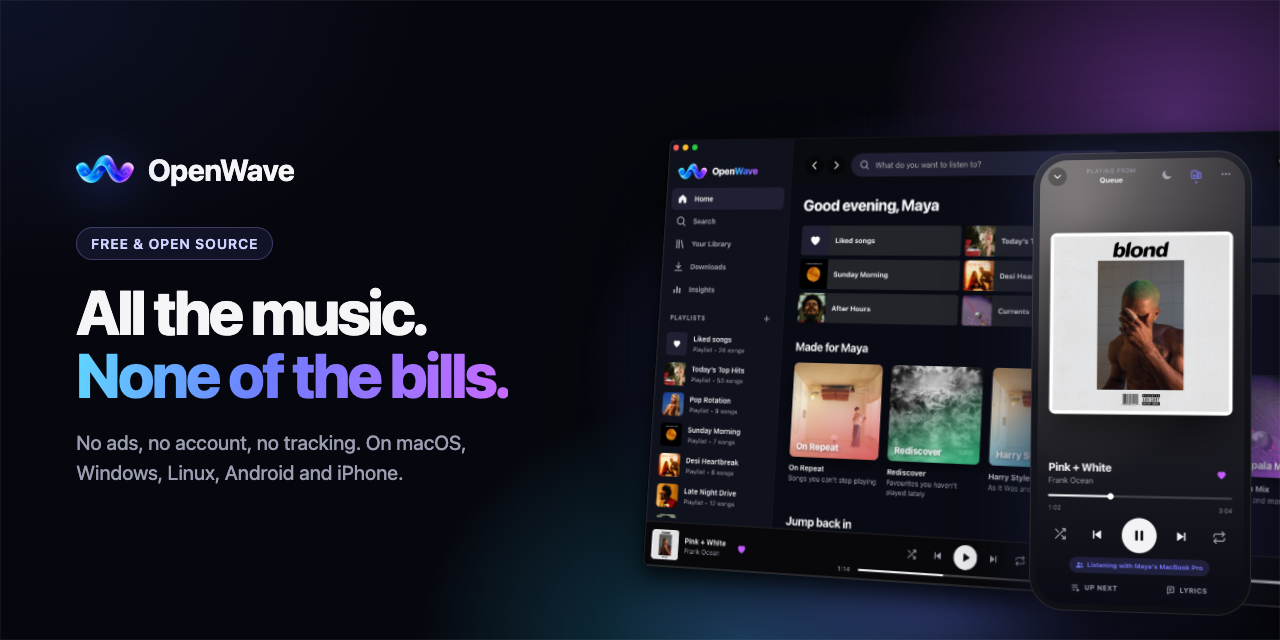
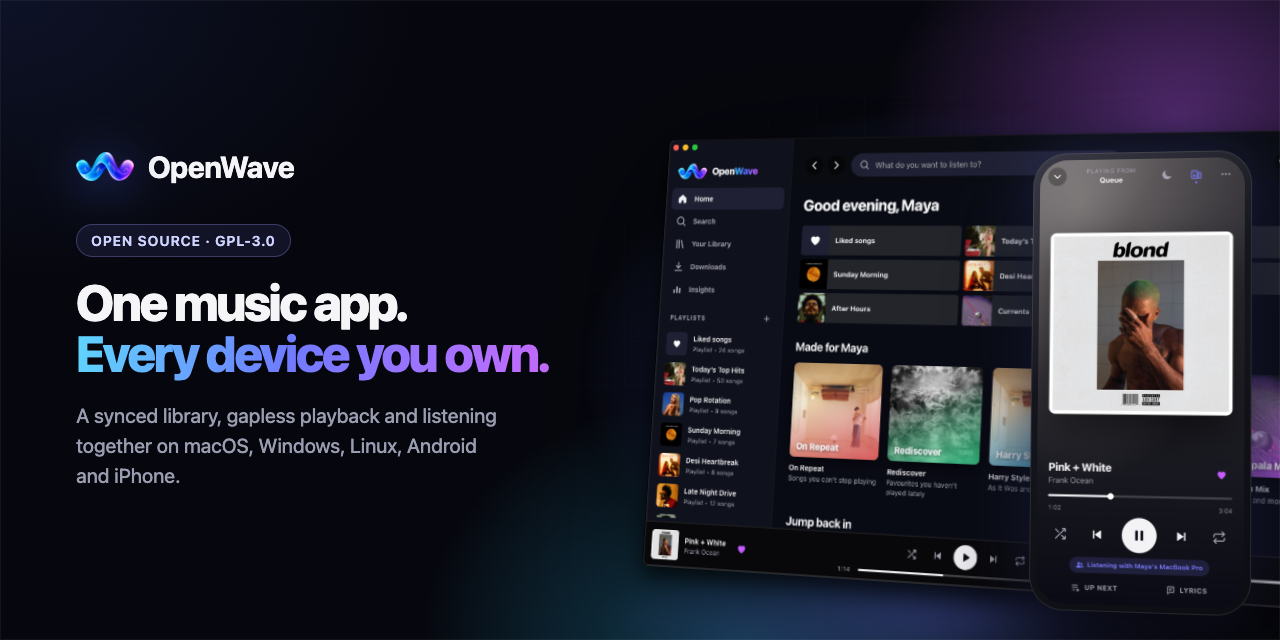
Describe OpenWave as an open-source, non-commercial player
Remove "no ads", "none of the bills" and "replace a premium subscription"
wording from the README, website, social card, release notes, app About
text and manifest. Add a legal and responsible-use section and a
non-commercial, no-circumvention rule for contributions.

Changed region(s): [[0.0625, 0.4375, 0.4375, 0.75], [0.0625, 0.3438, 0.25, 0.4062], [0.0625, 0.2188, 0.25, 0.2812]]

diff --git a/site/index.html b/site/index.html
@@ -3,10 +3,10 @@
 <head>
   <meta charset="utf-8">
   <meta name="viewport" content="width=device-width, initial-scale=1">
-  <title>OpenWave — free music for everyone</title>
-  <meta name="description" content="Free, open-source music app. Search almost any song, play it with no ads, download for offline, sync your playlists. No subscriptions, ever.">
-  <meta property="og:title" content="OpenWave — free music for everyone">
-  <meta property="og:description" content="No ads. No subscriptions. No premium tier. Ever.">
+  <title>OpenWave — an open-source music player for every device</title>
+  <meta name="description" content="OpenWave is an open-source music player for macOS, Windows, Linux, Android and iPhone, with a synced library, gapless playback and listen-together across your devices.">
+  <meta property="og:title" content="OpenWave — an open-source music player for every device">
+  <meta property="og:description" content="One engine, native apps on five platforms, a synced library and listen-together across your devices.">
   <meta property="og:image" content="screenshots/hero.png">
   <meta name="theme-color" content="#0a0b14">
   <link rel="icon" href="favicon-64.png">
@@ -87,21 +87,21 @@
 
   <header>
     <img class="hero-logo" src="logo.png" alt="OpenWave">
-    <h1>All the music.<br><span class="grad">None of the bills.</span></h1>
-    <p class="sub">OpenWave is a free, open-source music app. Search almost any song, play it with no ads and no gaps, download it for offline, and keep your playlists everywhere. No subscriptions. Ever.</p>
+    <h1>One music app.<br><span class="grad">Every device you own.</span></h1>
+    <p class="sub">OpenWave is an open-source music player. Search YouTube Music's public catalogue, play it gaplessly, keep your library in sync, and listen together across your Mac, PC and phone.</p>
     <div class="cta">
       <a class="btn primary" id="primary" href="#install">Download OpenWave</a>
-      <span class="small" id="primary-note">Free · Open source (GPL-3.0) · No account needed</span>
+      <span class="small" id="primary-note">Open source (GPL-3.0) · No account needed</span>
       <div class="others" id="others"></div>
     </div>
     <div class="shot"><img src="screenshots/hero.png" alt="OpenWave on a Mac and a phone, listening together"></div>
   </header>
 
   <section id="features">
-    <h2>Everything you'd pay for. Free.</h2>
-    <p class="lead">Built to replace a premium subscription, not to upsell you one.</p>
+    <h2>Built for listening, on every device.</h2>
+    <p class="lead">A complete music player, built in the open. Non-commercial, with no accounts and no tracking.</p>
     <div class="grid">
-      <div class="card"><div class="ico"><svg aria-hidden="true"><use href="#i-play"/></svg></div><h3>No ads, no gaps</h3><p>Songs flow into each other, with optional crossfade. Skips are instant.</p></div>
+      <div class="card"><div class="ico"><svg aria-hidden="true"><use href="#i-play"/></svg></div><h3>Gapless playback</h3><p>Songs flow into each other, with optional crossfade. Skips are instant.</p></div>
       <div class="card"><div class="ico"><svg aria-hidden="true"><use href="#i-album"/></svg></div><h3>Songs, never videos</h3><p>Always the clean audio track. No film dialogue, intros or skits.</p></div>
       <div class="card"><div class="ico"><svg aria-hidden="true"><use href="#i-radio"/></svg></div><h3>Never-ending radio</h3><p>When your queue ends, music you'll like keeps playing.</p></div>
       <div class="card"><div class="ico"><svg aria-hidden="true"><use href="#i-download"/></svg></div><h3>Offline downloads</h3><p>Save albums and playlists and listen anywhere, even with no internet.</p></div>
@@ -167,7 +167,7 @@
   <footer>
     <p><a class="brand" href="#" style="justify-content:center"><img src="logo.png" alt=""><span>Open<b>Wave</b></span></a></p>
     <p>Free and open source under the GNU GPL v3 · Your library stays on your own devices · <a href="https://github.com/SaiSiddharthBS/OpenWave">Source code</a> · <a href="https://github.com/SaiSiddharthBS/OpenWave/issues">Report a problem</a></p>
-    <p>OpenWave is an independent project, not affiliated with YouTube, Google or Spotify. It hosts no content. Please support the artists you love.</p>
+    <p>OpenWave is an independent, non-commercial project, not affiliated with YouTube, Google, Spotify or any record label. It hosts no content. Use it in line with the terms of the services it connects to, and please support the artists you listen to.</p>
   </footer>
 </div>
 <script>
@@ -184,7 +184,7 @@
   if (os) {
     primary.textContent = P[os].label;
     primary.href = P[os].href || REL + P[os].file;
-    document.getElementById('primary-note').textContent = `Free · ${P[os].note}`;
+    document.getElementById('primary-note').textContent = P[os].note;
   } else {
     primary.textContent = 'Get OpenWave on your phone';
     primary.href = '#phone';

diff --git a/openwave/web/js/views.js b/openwave/web/js/views.js
@@ -433,7 +433,7 @@ export async function settings() {
       <div class="setting"><div><b>Delete profile</b><p>Permanently delete “${esc(p.name)}” from this server.</p></div><button class="btn danger" data-act="delete-profile">Delete</button></div>` : ''}
       <h2>About</h2>
       <div class="prose">
-        <p><b>OpenWave ${esc(health?.version || '')}</b> — free and open-source software under the GNU GPL v3. No ads, no subscriptions, no tracking, no premium tier. Ever.</p>
+        <p><b>OpenWave ${esc(health?.version || '')}</b> — free and open-source software under the GNU GPL v3. Non-commercial, with no accounts and no tracking.</p>
         ${updateLine(update)}
         <p>Catalog and streams come from YouTube's public endpoints via <a href="https://github.com/sigma67/ytmusicapi" target="_blank" rel="noopener">ytmusicapi</a> and <a href="https://github.com/yt-dlp/yt-dlp" target="_blank" rel="noopener">yt-dlp</a>. OpenWave is not affiliated with or endorsed by YouTube or Google.</p>
         <p>Server: ${health ? `online • yt-dlp ${esc(health.ytDlp)} • JS runtime: ${esc(health.jsRuntimes.join(', ') || 'none found (install Deno or Node)')}${Object.keys(health.extractorUpdates || {}).length ? ' • update downloaded, restart OpenWave to apply' : ''}` : 'unreachable'}</p>

diff --git a/openwave/web/index.html b/openwave/web/index.html
@@ -4,7 +4,7 @@
   <meta charset="utf-8">
   <meta name="viewport" content="width=device-width, initial-scale=1, viewport-fit=cover">
   <title>OpenWave</title>
-  <meta name="description" content="Free and open-source music for everyone. No ads, no subscriptions, no premium.">
+  <meta name="description" content="An open-source music player for every device you own.">
   <meta name="theme-color" content="#0a0b14">
   <meta name="color-scheme" content="dark">
   <meta name="apple-mobile-web-app-capable" content="yes">

diff --git a/openwave/web/sw.js b/openwave/web/sw.js
@@ -1,6 +1,6 @@
 // Caches the app shell and artwork so OpenWave opens and shows your library with no connection.
 // Downloaded songs live in IndexedDB (see js/offline.js); live streams are never cached here.
-const VERSION = 'openwave-v13';
+const VERSION = 'openwave-v14';
 const IMAGES = 'openwave-img-v1';
 const MAX_IMAGES = 600;
 const SHELL = [

diff --git a/scripts/release_notes.py b/scripts/release_notes.py
@@ -16,8 +16,8 @@ REPO = "SaiSiddharthBS/OpenWave"
 
 TEMPLATE = """<p align="center"><img src="https://raw.githubusercontent.com/{repo}/v{v}/docs/logo.png" width="200" alt="OpenWave"></p>
 
-<h3 align="center">All the music. None of the bills.</h3>
-<p align="center">Free and open source. No ads, no subscriptions, no premium tier. Ever.</p>
+<h3 align="center">One music app. Every device you own.</h3>
+<p align="center">Open-source, non-commercial software under the GPL-3.0, with no accounts and no tracking.</p>
 
 ## Download
 
@@ -49,8 +49,8 @@ __SUMS__
 
 ---
 
-**OpenWave is free and open source (GPL-3.0).** If you find it useful, star the repo, share it, and [report anything that breaks](https://github.com/{repo}/issues/new/choose).
-<sub>OpenWave is an independent project, not affiliated with YouTube, Google or Spotify. It hosts no content. Please support the artists you love.</sub>
+**OpenWave is free and open source (GPL-3.0).** If you find it useful, star the repo and [report anything that breaks](https://github.com/{repo}/issues/new/choose).
+<sub>OpenWave is an independent, non-commercial project, not affiliated with YouTube, Google, Spotify or any record label. It hosts no content. Please support the artists you listen to through official channels.</sub>
 """
 
 

diff --git a/README.md b/README.md
@@ -4,9 +4,9 @@
 
 <h1>OpenWave</h1>
 
-<p><b>The free, open-source music app for every device you own.</b></p>
+<p><b>An open-source music player for every device you own.</b></p>
 
-<p>Search almost any song, play it with no ads and no gaps, download it for offline listening,<br>and take your library, playlists and listening sessions across your Mac, PC and phone.</p>
+<p>Search YouTube Music's public catalogue, play it gaplessly, and take your library, playlists<br>and listening sessions across your Mac, PC and phone.</p>
 
 <p>
 <a href="https://github.com/SaiSiddharthBS/OpenWave/releases/latest"><img alt="Latest release" src="https://img.shields.io/github/v/release/SaiSiddharthBS/OpenWave?label=release&color=7b7bff"></a>
@@ -33,14 +33,14 @@
 
 ## Overview
 
-OpenWave is a complete music app built on YouTube Music's catalogue. It has the features people pay a subscription for, and none of the things they pay to avoid: no ads, no account, no tracking, no premium tier.
+OpenWave is an open-source, non-commercial music client for YouTube Music's public catalogue. It is an engineering project first: one engine, native apps on five platforms, a synced personal library, and devices that play together. It has no accounts, no tracking and no monetisation of any kind, and it hosts no content.
 
 - **One engine, every platform.** A single Python engine powers native apps for macOS, Windows, Linux and Android, a web app for iPhone, and a Docker image for home servers. Every feature ships everywhere at once.
 - **Your library is yours.** Profiles, likes, playlists and listening history live in a SQLite database on your own device or server. Nothing is sent to a cloud service, and the apps never report usage.
 - **Built like a product, not a script.** Gapless playback, personal mixes, synced lyrics, offline downloads, playlist import from other services, multi-device control and listen-together sessions, in-app updates, and signed, checksummed releases.
 
 <table>
-  <tr><td><b>Cost</b></td><td>Free, forever. GPL-3.0.</td></tr>
+  <tr><td><b>License</b></td><td>GPL-3.0. Free and open-source software, non-commercial.</td></tr>
   <tr><td><b>Account</b></td><td>None. Profiles are local, with an optional PIN.</td></tr>
   <tr><td><b>Platforms</b></td><td>macOS 13+ (Apple Silicon and Intel), Windows 10/11, Linux x86-64, Android 7+ (64-bit), iPhone via Safari, Docker (amd64, arm64)</td></tr>
   <tr><td><b>Latest release</b></td><td><a href="https://github.com/SaiSiddharthBS/OpenWave/releases/latest">v0.3.1</a>, with every installer, SHA-256 checksums and a Docker image</td></tr>
@@ -384,9 +384,9 @@ Release history is in [CHANGELOG.md](CHANGELOG.md). Ideas and requests are welco
 ## FAQ
 
 <details>
-<summary><b>Is it really free?</b></summary>
+<summary><b>Is OpenWave a commercial product?</b></summary>
 
-Yes. There is nothing to buy, and the GPL-3.0 license keeps every version free and open source.
+No. It is free and open-source software under the GPL-3.0, with nothing to buy and no paid tier, and it will not be monetised.
 </details>
 
 <details>
@@ -433,9 +433,13 @@ Contributions of every kind are welcome: code, design, translations, documentati
 
 OpenWave is built on [yt-dlp](https://github.com/yt-dlp/yt-dlp), [ytmusicapi](https://github.com/sigma67/ytmusicapi), [FastAPI](https://fastapi.tiangolo.com), [Deno](https://deno.com), [PyInstaller](https://pyinstaller.org) and [Chaquopy](https://chaquo.com/chaquopy/), and inspired by [NewPipe](https://newpipe.net), [FreeTube](https://freetubeapp.io) and [Invidious](https://invidious.io).
 
-## Disclaimer
+## Legal and responsible use
 
-OpenWave is an independent project. It is not affiliated with, endorsed by, or connected to YouTube, Google or Spotify. It hosts no content: it is a client for publicly available content, built on the same open-source libraries used by other community projects. Using third-party clients may conflict with YouTube's Terms of Service. OpenWave is intended for personal use; please support the artists you listen to.
+- **OpenWave hosts no content.** It is a client for content that YouTube makes publicly available, built on the same open-source libraries as other community projects such as yt-dlp and NewPipe. It does not store, redistribute or sell music.
+- **Non-commercial.** OpenWave is not monetised and never will be. It is intended for personal use.
+- **Respect the rights of others.** You are responsible for using OpenWave in line with the terms of the services it connects to and the copyright law of your country. Using third-party clients may conflict with YouTube's Terms of Service. Please support the artists you listen to through official channels.
+- **Not affiliated.** OpenWave is an independent project, not affiliated with, endorsed by or connected to YouTube, Google, Spotify or any record label. Product names are used only to describe compatibility.
+- **Rights holders** with a concern can [open an issue](https://github.com/SaiSiddharthBS/OpenWave/issues/new/choose) or reach the maintainer privately through the repository's [private reporting form](https://github.com/SaiSiddharthBS/OpenWave/security/advisories/new); concerns are reviewed promptly.
 
 ## License
 

diff --git a/CONTRIBUTING.md b/CONTRIBUTING.md
@@ -4,7 +4,8 @@ Thank you for helping keep music free and open. Every kind of contribution helps
 
 ## Ground rules
 
-- **Free forever.** OpenWave will never have ads, paid tiers, accounts or tracking. PRs that add any of these won't be merged.
+- **Non-commercial, forever.** OpenWave will never be monetised: no ads, paid tiers, accounts or tracking. PRs that add any of these won't be merged.
+- **No content, no circumvention.** OpenWave never hosts or redistributes music, and contributions must not break DRM or other technical protection measures.
 - **Privacy first.** Libraries live only on the server the user runs (and downloads only on their device). No analytics, no third-party calls from the client, nothing phones home.
 - **No YouTube/Google branding.** Don't add their logos, names in the app title, or look-alike trademarks.
 - **Be kind.** Treat everyone with respect in issues and reviews.

diff --git a/docs/releases/v0.3.0.md b/docs/releases/v0.3.0.md
@@ -1,7 +1,7 @@
 <p align="center"><img src="https://raw.githubusercontent.com/SaiSiddharthBS/OpenWave/v0.3.0/docs/logo.png" width="220" alt="OpenWave"></p>
 
-<h3 align="center">All the music. None of the bills. Now in your pocket.</h3>
-<p align="center">OpenWave 0.3 brings the full app to <b>Android</b>. The whole engine runs on the phone itself, so you don't need a computer.<br>Still free, still open source, still no ads, subscriptions or premium tier.</p>
+<h3 align="center">OpenWave, now on Android.</h3>
+<p align="center">OpenWave 0.3 brings the full app to <b>Android</b>. The whole engine runs on the phone itself, so you don't need a computer.<br>Still open source and non-commercial, with no accounts and no tracking.</p>
 
 ## Download
 

diff --git a/CHANGELOG.md b/CHANGELOG.md
@@ -15,6 +15,7 @@ Write new changes under **Unreleased**; `scripts/release.sh` turns that into the
 - The website's Mac button no longer offers the Apple Silicon download to Intel Macs.
 - A new README with fresh screenshots of every platform, line icons instead of emoji on the website, and release notes without emoji.
 - A security policy, code of conduct, pull request template and clearer issue forms.
+- OpenWave now describes itself as an open-source, non-commercial music player, with no "ad-free" or "instead of a subscription" wording in the app, website, README or release notes, and a clearer note on legal and responsible use.
 
 ## [0.3.1] — 2026-10-25
 

diff --git a/.github/pull_request_template.md b/.github/pull_request_template.md
@@ -12,4 +12,4 @@
 - [ ] Added or updated tests for engine changes
 - [ ] Added a line under `## [Unreleased]` in `CHANGELOG.md`
 - [ ] Bumped `VERSION` in `openwave/web/sw.js` if cached web files changed
-- [ ] No ads, accounts, tracking or third-party calls from the client (see CONTRIBUTING.md)
+- [ ] No monetisation, accounts, tracking or third-party calls from the client (see CONTRIBUTING.md)
